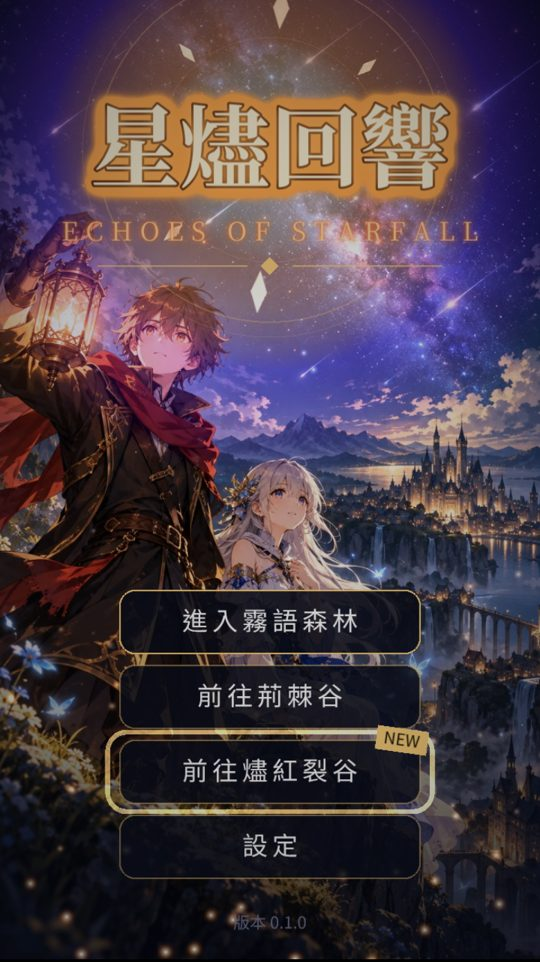
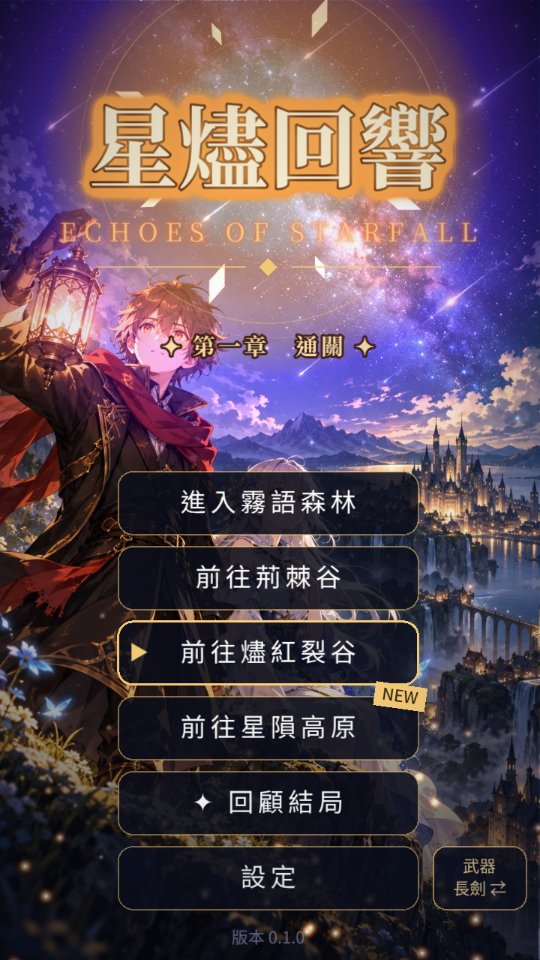
標題：走光門玩過（播過幕名卡）或打倒過 Boss 的地圖不再掛「NEW」；以前通關回標題，荊棘谷、燼紅裂谷、星隕高原三顆都掛著 NEW。README 標題截圖重拍（四張地圖）
Claude-Session: https://claude.ai/code/session_01DgXGTutqKErYxaMvqY2C82

diff --git a/src/game/scenes/TitleScene.ts b/src/game/scenes/TitleScene.ts
@@ -3,6 +3,7 @@ import { fadeOutThen } from '../fx/feel';
 import { openSettings } from '../ui/settingsPanel';
 import { SFX } from '../../audio/sfx';
 import { bossKillsOf, mapOpen } from '../rtRecord';
+import { chapterSeen } from '../chapters';
 import { prevMap, WORLD_MAPS, FINALE_MAP } from '../worldMaps';
 import { loadWeapon, nextWeapon, saveWeapon, WEAPON_NAME } from '../weapon';
 import { playMusic } from '../../audio/music';
@@ -267,7 +268,8 @@ export class TitleScene extends Phaser.Scene {
     let lastIdx = 0; // 第 63 輪：上次玩的地圖亮金框＋▶（沒紀錄就是第一顆）
     WORLD_MAPS.forEach((m, i) => {
       if (mapOpen(m.id) && m.id === last) lastIdx = items.length;
-      if (mapOpen(m.id) && i > 0 && !seenMap(m.id)) fresh.add(items.length);
+      // 第 66 輪：走光門進去玩過的地圖不算新的（以前通關回標題，荊棘谷、燼紅裂谷都還掛著 NEW）
+      if (mapOpen(m.id) && i > 0 && !seenMap(m.id) && !chapterSeen(m.id) && !bossKillsOf(m.id)) fresh.add(items.length);
       if (mapOpen(m.id)) items.push([`${i ? '前往' : '進入'}${m.name}`, () => this.go(() => this.scene.start('RtBattle', { stage: m.id, bot: '' }))]);
       else items.push([`${m.name}（未開放）`, () => this.lockedHint(m.id)]);
     });
